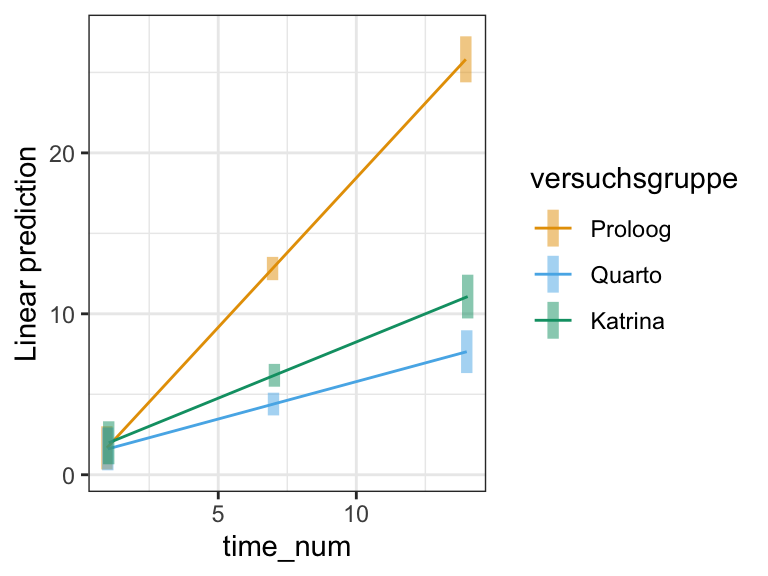
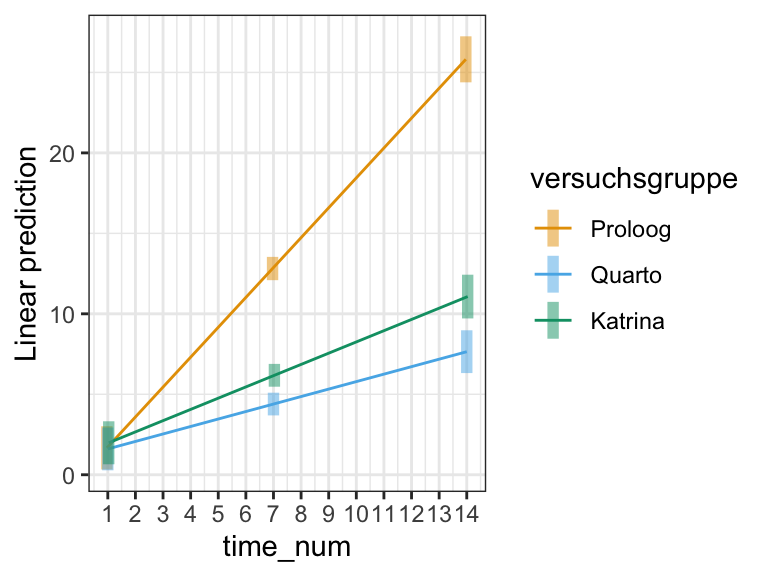
added examples and links

diff --git a/docs/stat-tests-ancova.html b/docs/stat-tests-ancova.html
@@ -651,7 +651,7 @@ pre > code.sourceCode > span > a:first-child::before { text-decoration: underlin
   </div>
   
 
-</header><p><em>Version vom July 16, 2023 um 19:26:30</em></p>
+</header><p><em>Version vom July 16, 2023 um 20:05:37</em></p>
 <blockquote class="blockquote">
 <p><em>“Make use of time, let not advantage slip.” — William Shakespeare</em></p>
 </blockquote>
@@ -1261,38 +1261,40 @@ Signif. codes:  0 '***' 0.001 '**' 0.01 '*' 0.05 '.' 0.1 ' ' 1</code></pre>
 <figure class="figure"><p><img src="images/caution.png" class="img-fluid figure-img" style="width:50.0%"></p>
 </figure>
 </div>
-<p>Im Folgenden schauen wir uns dann die Auswertung der Gurkendaten einmal genauer an. Für mehr Informationen bitte einmal in das Kapitel <a href="stat-tests-posthoc.html"><span>Kapitel&nbsp;31</span></a> schauen.</p>
+<p>Im Folgenden schauen wir uns dann die Auswertung der Gurkendaten einmal genauer an. Für mehr Informationen zu dem Paket <code>emmeans</code> und den entsprechenden Funktionen dann bitte einmal in das Kapitel <a href="stat-tests-posthoc.html"><span>Kapitel&nbsp;31</span></a> schauen.</p>
 
 <div class="no-row-height column-margin column-container"><div class="">
-<p>Es gibt hier auch ein weiteres englischsprachiges Tutorium <a href="https://yuzar-blog.netlify.app/posts/2022-12-29-emmeans2interactions/">Don’t Ignore Interactions - Unleash the Full Power of Models with {emmeans} R-package</a></p>
+<p>Es gibt hier auch ein weiteres englischsprachiges Tutorium <a href="https://yuzar-blog.netlify.app/posts/2022-12-29-emmeans2interactions/">Don’t Ignore Interactions - Unleash the Full Power of Models with {emmeans} R-package</a> oder <a href="https://yuzar-blog.netlify.app/posts/2022-11-29-emmeans/">{emmeans} Game-Changing R-package Squeezes Hidden Knowledge out of Models!</a>. DISCLAIMER: Der Text ist gut, die Bebilderung des entsprechenden Videos so leider mal gar nicht…</p>
 </div></div><div class="cell">
-<div class="sourceCode" id="cb14"><pre class="downlit sourceCode r code-with-copy"><code class="sourceCode R"><span><span class="va">time_fct_fit</span> <span class="op">&lt;-</span> <span class="fu"><a href="https://rdrr.io/r/stats/lm.html">lm</a></span><span class="op">(</span><span class="va">length</span> <span class="op">~</span> <span class="va">versuchsgruppe</span> <span class="op">+</span> <span class="va">time_fct</span> <span class="op">+</span> <span class="va">versuchsgruppe</span><span class="op">:</span><span class="va">time_fct</span>, <span class="va">gurke_time_len_tbl</span><span class="op">)</span></span>
-<span></span>
-<span></span>
-<span></span>
-<span><span class="fu">emmip</span><span class="op">(</span><span class="va">time_fct_fit</span>, <span class="va">versuchsgruppe</span> <span class="op">~</span> <span class="va">time_fct</span>, CIs <span class="op">=</span> <span class="cn">TRUE</span><span class="op">)</span> <span class="op">+</span></span>
+<div class="sourceCode" id="cb14"><pre class="downlit sourceCode r code-with-copy"><code class="sourceCode R"><span><span class="va">time_fct_fit</span> <span class="op">&lt;-</span> <span class="fu"><a href="https://rdrr.io/r/stats/lm.html">lm</a></span><span class="op">(</span><span class="va">length</span> <span class="op">~</span> <span class="va">versuchsgruppe</span> <span class="op">+</span> <span class="va">time_fct</span> <span class="op">+</span> <span class="va">versuchsgruppe</span><span class="op">:</span><span class="va">time_fct</span>, <span class="va">gurke_time_len_tbl</span><span class="op">)</span></span></code><button title="In die Zwischenablage kopieren" class="code-copy-button"><i class="bi"></i></button></pre></div>
+</div>
+<div class="cell" data-layout-align="center">
+<div class="sourceCode" id="cb15"><pre class="downlit sourceCode r code-with-copy"><code class="sourceCode R"><span><span class="fu">emmip</span><span class="op">(</span><span class="va">time_fct_fit</span>, <span class="va">versuchsgruppe</span> <span class="op">~</span> <span class="va">time_fct</span>, CIs <span class="op">=</span> <span class="cn">TRUE</span><span class="op">)</span> <span class="op">+</span></span>
 <span>  <span class="fu">theme_bw</span><span class="op">(</span><span class="op">)</span> <span class="op">+</span></span>
 <span>  <span class="fu">scale_color_okabeito</span><span class="op">(</span><span class="op">)</span></span></code><button title="In die Zwischenablage kopieren" class="code-copy-button"><i class="bi"></i></button></pre></div>
 <div class="cell-output-display">
-<p><img src="stat-tests-ancova_files/figure-html/unnamed-chunk-15-1.png" class="img-fluid" width="672"></p>
+<div id="fig-stat-ancova-08" class="quarto-figure quarto-figure-center anchored">
+<figure class="figure"><p><img src="stat-tests-ancova_files/figure-html/fig-stat-ancova-08-1.png" class="img-fluid figure-img" width="576"></p>
+<figcaption class="figure-caption">Abbildung&nbsp;24.4— Scatterplot der Daten zur einfaktoriellen ANCOVA aufgetelt nach dem Geschlecht der Flöhe.</figcaption></figure>
+</div>
 </div>
 </div>
 <div class="cell" data-layout-align="center">
-<div class="sourceCode" id="cb15"><pre class="downlit sourceCode r code-with-copy"><code class="sourceCode R"><span><span class="fu">emmip</span><span class="op">(</span><span class="va">time_fct_fit</span> , <span class="va">versuchsgruppe</span> <span class="op">~</span> <span class="va">time_fct</span>, CIs <span class="op">=</span> <span class="cn">TRUE</span><span class="op">)</span> <span class="op">+</span></span>
+<div class="sourceCode" id="cb16"><pre class="downlit sourceCode r code-with-copy"><code class="sourceCode R"><span><span class="fu">emmip</span><span class="op">(</span><span class="va">time_fct_fit</span> , <span class="va">versuchsgruppe</span> <span class="op">~</span> <span class="va">time_fct</span>, CIs <span class="op">=</span> <span class="cn">TRUE</span><span class="op">)</span> <span class="op">+</span></span>
 <span>  <span class="fu">theme_bw</span><span class="op">(</span><span class="op">)</span> <span class="op">+</span></span>
 <span>  <span class="fu">scale_color_okabeito</span><span class="op">(</span><span class="op">)</span></span></code><button title="In die Zwischenablage kopieren" class="code-copy-button"><i class="bi"></i></button></pre></div>
 <div class="cell-output-display">
 <div id="fig-stat-ancova-04" class="quarto-figure quarto-figure-center anchored">
 <figure class="figure"><p><img src="stat-tests-ancova_files/figure-html/fig-stat-ancova-04-1.png" class="img-fluid figure-img" width="576"></p>
-<figcaption class="figure-caption">Abbildung&nbsp;24.4— Scatterplot der Daten zur einfaktoriellen ANCOVA aufgetelt nach dem Geschlecht der Flöhe.</figcaption></figure>
+<figcaption class="figure-caption">Abbildung&nbsp;24.5— Scatterplot der Daten zur einfaktoriellen ANCOVA aufgetelt nach dem Geschlecht der Flöhe.</figcaption></figure>
 </div>
 </div>
 </div>
 <div class="cell">
-<div class="sourceCode" id="cb16"><pre class="downlit sourceCode r code-with-copy"><code class="sourceCode R"><span><span class="va">time_num_fit</span> <span class="op">&lt;-</span> <span class="fu"><a href="https://rdrr.io/r/stats/lm.html">lm</a></span><span class="op">(</span><span class="va">length</span> <span class="op">~</span> <span class="va">versuchsgruppe</span> <span class="op">+</span> <span class="va">time_num</span> <span class="op">+</span> <span class="va">versuchsgruppe</span><span class="op">:</span><span class="va">time_num</span>, <span class="va">gurke_time_len_tbl</span><span class="op">)</span></span></code><button title="In die Zwischenablage kopieren" class="code-copy-button"><i class="bi"></i></button></pre></div>
+<div class="sourceCode" id="cb17"><pre class="downlit sourceCode r code-with-copy"><code class="sourceCode R"><span><span class="va">time_num_fit</span> <span class="op">&lt;-</span> <span class="fu"><a href="https://rdrr.io/r/stats/lm.html">lm</a></span><span class="op">(</span><span class="va">length</span> <span class="op">~</span> <span class="va">versuchsgruppe</span> <span class="op">+</span> <span class="va">time_num</span> <span class="op">+</span> <span class="va">versuchsgruppe</span><span class="op">:</span><span class="va">time_num</span>, <span class="va">gurke_time_len_tbl</span><span class="op">)</span></span></code><button title="In die Zwischenablage kopieren" class="code-copy-button"><i class="bi"></i></button></pre></div>
 </div>
 <div class="cell">
-<div class="sourceCode" id="cb17"><pre class="downlit sourceCode r code-with-copy"><code class="sourceCode R"><span><span class="va">time_num_fit</span> <span class="op">%&gt;%</span> <span class="fu"><a href="https://rdrr.io/r/stats/anova.html">anova</a></span><span class="op">(</span><span class="op">)</span></span></code><button title="In die Zwischenablage kopieren" class="code-copy-button"><i class="bi"></i></button></pre></div>
+<div class="sourceCode" id="cb18"><pre class="downlit sourceCode r code-with-copy"><code class="sourceCode R"><span><span class="va">time_num_fit</span> <span class="op">%&gt;%</span> <span class="fu"><a href="https://rdrr.io/r/stats/anova.html">anova</a></span><span class="op">(</span><span class="op">)</span></span></code><button title="In die Zwischenablage kopieren" class="code-copy-button"><i class="bi"></i></button></pre></div>
 <div class="cell-output cell-output-stdout">
 <pre><code>Analysis of Variance Table
 
@@ -1307,14 +1309,16 @@ Signif. codes:  0 '***' 0.001 '**' 0.01 '*' 0.05 '.' 0.1 ' ' 1</code></pre>
 </div>
 </div>
 <div>
-<div class="sourceCode" id="cb19"><pre class="downlit sourceCode r code-with-copy"><code class="sourceCode R"><span><span class="fu">emmip</span><span class="op">(</span><span class="va">time_num_fit</span>, <span class="va">versuchsgruppe</span> <span class="op">~</span> <span class="va">time_num</span>, CIs <span class="op">=</span> <span class="cn">TRUE</span>, </span>
+<div class="sourceCode" id="cb20"><pre class="downlit sourceCode r code-with-copy"><code class="sourceCode R"><span><span class="fu">emmip</span><span class="op">(</span><span class="va">time_num_fit</span>, <span class="va">versuchsgruppe</span> <span class="op">~</span> <span class="va">time_num</span>, CIs <span class="op">=</span> <span class="cn">TRUE</span>, </span>
 <span>      at <span class="op">=</span> <span class="fu"><a href="https://rdrr.io/r/base/list.html">list</a></span><span class="op">(</span>time_num <span class="op">=</span> <span class="fu"><a href="https://rdrr.io/r/base/c.html">c</a></span><span class="op">(</span><span class="fl">1</span>, <span class="fl">7</span>, <span class="fl">14</span><span class="op">)</span><span class="op">)</span><span class="op">)</span> <span class="op">+</span></span>
 <span>  <span class="fu">theme_bw</span><span class="op">(</span><span class="op">)</span> <span class="op">+</span></span>
+<span>  <span class="fu">scale_x_continuous</span><span class="op">(</span>breaks <span class="op">=</span> <span class="fl">1</span><span class="op">:</span><span class="fl">14</span><span class="op">)</span> <span class="op">+</span></span>
 <span>  <span class="fu">scale_color_okabeito</span><span class="op">(</span><span class="op">)</span></span>
 <span></span>
 <span><span class="fu">emmip</span><span class="op">(</span><span class="va">time_num_fit</span>, <span class="va">versuchsgruppe</span> <span class="op">~</span> <span class="va">time_num</span>, CIs <span class="op">=</span> <span class="cn">TRUE</span>, </span>
 <span>      cov.reduce <span class="op">=</span> <span class="cn">FALSE</span><span class="op">)</span> <span class="op">+</span></span>
 <span>  <span class="fu">theme_bw</span><span class="op">(</span><span class="op">)</span> <span class="op">+</span></span>
+<span>  <span class="fu">scale_x_continuous</span><span class="op">(</span>breaks <span class="op">=</span> <span class="fl">1</span><span class="op">:</span><span class="fl">14</span><span class="op">)</span> <span class="op">+</span></span>
 <span>  <span class="fu">scale_color_okabeito</span><span class="op">(</span><span class="op">)</span></span></code><button title="In die Zwischenablage kopieren" class="code-copy-button"><i class="bi"></i></button></pre></div>
 <div id="fig-stat-ancova-05" class="cell quarto-layout-panel">
 <figure class="figure"><div class="quarto-layout-row quarto-layout-valign-top">
@@ -1331,12 +1335,12 @@ Signif. codes:  0 '***' 0.001 '**' 0.01 '*' 0.05 '.' 0.1 ' ' 1</code></pre>
 </div>
 </div>
 </div>
-<p></p><figcaption class="figure-caption">Abbildung&nbsp;24.5— Darstellung Anzahl an Bärchen und Anzahl an Farben. Es gibt nicht mehr als sechs Farben. Auf der linken Seite die beobachteten Werte und auf der rechten Seite die theoretischen Werte.</figcaption><p></p>
+<p></p><figcaption class="figure-caption">Abbildung&nbsp;24.6— Darstellung Anzahl an Bärchen und Anzahl an Farben. Es gibt nicht mehr als sechs Farben. Auf der linken Seite die beobachteten Werte und auf der rechten Seite die theoretischen Werte.</figcaption><p></p>
 </figure>
 </div>
 </div>
 <div class="cell">
-<div class="sourceCode" id="cb20"><pre class="downlit sourceCode r code-with-copy"><code class="sourceCode R"><span><span class="fu">emtrends</span><span class="op">(</span><span class="va">time_num_fit</span>, <span class="op">~</span> <span class="va">versuchsgruppe</span>, var <span class="op">=</span> <span class="st">"time_num"</span>, infer <span class="op">=</span> <span class="cn">TRUE</span><span class="op">)</span></span></code><button title="In die Zwischenablage kopieren" class="code-copy-button"><i class="bi"></i></button></pre></div>
+<div class="sourceCode" id="cb21"><pre class="downlit sourceCode r code-with-copy"><code class="sourceCode R"><span><span class="fu">emtrends</span><span class="op">(</span><span class="va">time_num_fit</span>, <span class="op">~</span> <span class="va">versuchsgruppe</span>, var <span class="op">=</span> <span class="st">"time_num"</span>, infer <span class="op">=</span> <span class="cn">TRUE</span><span class="op">)</span></span></code><button title="In die Zwischenablage kopieren" class="code-copy-button"><i class="bi"></i></button></pre></div>
 <div class="cell-output cell-output-stdout">
 <pre><code> versuchsgruppe time_num.trend     SE  df lower.CL upper.CL t.ratio p.value
  Proloog                 1.857 0.0923 240    1.675    2.039  20.116  &lt;.0001
@@ -1347,7 +1351,7 @@ Confidence level used: 0.95 </code></pre>
 </div>
 </div>
 <div class="cell">
-<div class="sourceCode" id="cb22"><pre class="downlit sourceCode r code-with-copy"><code class="sourceCode R"><span><span class="fu">emtrends</span><span class="op">(</span><span class="va">time_num_fit</span>, <span class="va">pairwise</span> <span class="op">~</span> <span class="va">versuchsgruppe</span>, var <span class="op">=</span> <span class="st">"time_num"</span>, infer <span class="op">=</span> <span class="cn">TRUE</span><span class="op">)</span></span></code><button title="In die Zwischenablage kopieren" class="code-copy-button"><i class="bi"></i></button></pre></div>
+<div class="sourceCode" id="cb23"><pre class="downlit sourceCode r code-with-copy"><code class="sourceCode R"><span><span class="fu">emtrends</span><span class="op">(</span><span class="va">time_num_fit</span>, <span class="va">pairwise</span> <span class="op">~</span> <span class="va">versuchsgruppe</span>, var <span class="op">=</span> <span class="st">"time_num"</span>, infer <span class="op">=</span> <span class="cn">TRUE</span><span class="op">)</span></span></code><button title="In die Zwischenablage kopieren" class="code-copy-button"><i class="bi"></i></button></pre></div>
 <div class="cell-output cell-output-stdout">
 <pre><code>$emtrends
  versuchsgruppe time_num.trend     SE  df lower.CL upper.CL t.ratio p.value
@@ -1369,22 +1373,22 @@ P value adjustment: tukey method for comparing a family of 3 estimates </code></
 </div>
 </div>
 <div class="cell">
-<div class="sourceCode" id="cb24"><pre class="downlit sourceCode r code-with-copy"><code class="sourceCode R"><span><span class="va">time_num_poly_fit</span> <span class="op">&lt;-</span> <span class="fu"><a href="https://rdrr.io/r/stats/lm.html">lm</a></span><span class="op">(</span><span class="va">length</span> <span class="op">~</span> <span class="va">versuchsgruppe</span> <span class="op">*</span> <span class="fu"><a href="https://rdrr.io/r/stats/poly.html">poly</a></span><span class="op">(</span><span class="va">time_num</span>, <span class="fl">3</span><span class="op">)</span>, <span class="va">gurke_time_len_tbl</span><span class="op">)</span></span></code><button title="In die Zwischenablage kopieren" class="code-copy-button"><i class="bi"></i></button></pre></div>
+<div class="sourceCode" id="cb25"><pre class="downlit sourceCode r code-with-copy"><code class="sourceCode R"><span><span class="va">time_num_poly_fit</span> <span class="op">&lt;-</span> <span class="fu"><a href="https://rdrr.io/r/stats/lm.html">lm</a></span><span class="op">(</span><span class="va">length</span> <span class="op">~</span> <span class="va">versuchsgruppe</span> <span class="op">*</span> <span class="fu"><a href="https://rdrr.io/r/stats/poly.html">poly</a></span><span class="op">(</span><span class="va">time_num</span>, <span class="fl">3</span><span class="op">)</span>, <span class="va">gurke_time_len_tbl</span><span class="op">)</span></span></code><button title="In die Zwischenablage kopieren" class="code-copy-button"><i class="bi"></i></button></pre></div>
 </div>
 <div class="cell" data-layout-align="center">
-<div class="sourceCode" id="cb25"><pre class="downlit sourceCode r code-with-copy"><code class="sourceCode R"><span><span class="fu">emmip</span><span class="op">(</span><span class="va">time_num_poly_fit</span>, <span class="va">versuchsgruppe</span> <span class="op">~</span> <span class="va">time_num</span>, CIs <span class="op">=</span> <span class="cn">TRUE</span>, </span>
+<div class="sourceCode" id="cb26"><pre class="downlit sourceCode r code-with-copy"><code class="sourceCode R"><span><span class="fu">emmip</span><span class="op">(</span><span class="va">time_num_poly_fit</span>, <span class="va">versuchsgruppe</span> <span class="op">~</span> <span class="va">time_num</span>, CIs <span class="op">=</span> <span class="cn">TRUE</span>, </span>
 <span>      cov.reduce <span class="op">=</span> <span class="cn">FALSE</span><span class="op">)</span> <span class="op">+</span></span>
 <span>  <span class="fu">theme_bw</span><span class="op">(</span><span class="op">)</span> <span class="op">+</span></span>
 <span>  <span class="fu">scale_color_okabeito</span><span class="op">(</span><span class="op">)</span></span></code><button title="In die Zwischenablage kopieren" class="code-copy-button"><i class="bi"></i></button></pre></div>
 <div class="cell-output-display">
 <div id="fig-stat-ancova-06" class="quarto-figure quarto-figure-center anchored">
 <figure class="figure"><p><img src="stat-tests-ancova_files/figure-html/fig-stat-ancova-06-1.png" class="img-fluid figure-img" width="576"></p>
-<figcaption class="figure-caption">Abbildung&nbsp;24.6— Scatterplot der Daten zur einfaktoriellen ANCOVA aufgetelt nach dem Geschlecht der Flöhe.</figcaption></figure>
+<figcaption class="figure-caption">Abbildung&nbsp;24.7— Scatterplot der Daten zur einfaktoriellen ANCOVA aufgetelt nach dem Geschlecht der Flöhe.</figcaption></figure>
 </div>
 </div>
 </div>
 <div class="cell">
-<div class="sourceCode" id="cb26"><pre class="downlit sourceCode r code-with-copy"><code class="sourceCode R"><span><span class="fu">emmeans</span><span class="op">(</span><span class="va">time_num_poly_fit</span>, <span class="va">pairwise</span> <span class="op">~</span> <span class="va">versuchsgruppe</span> <span class="op">|</span> <span class="va">time_num</span>, </span>
+<div class="sourceCode" id="cb27"><pre class="downlit sourceCode r code-with-copy"><code class="sourceCode R"><span><span class="fu">emmeans</span><span class="op">(</span><span class="va">time_num_poly_fit</span>, <span class="va">pairwise</span> <span class="op">~</span> <span class="va">versuchsgruppe</span> <span class="op">|</span> <span class="va">time_num</span>, </span>
 <span>        at <span class="op">=</span> <span class="fu"><a href="https://rdrr.io/r/base/list.html">list</a></span><span class="op">(</span>time_num <span class="op">=</span> <span class="fu"><a href="https://rdrr.io/r/base/c.html">c</a></span><span class="op">(</span><span class="fl">1</span>, <span class="fl">7</span>, <span class="fl">14</span><span class="op">)</span><span class="op">)</span><span class="op">)</span> <span class="op">%&gt;%</span> </span>
 <span>  <span class="fu">cld</span><span class="op">(</span><span class="op">)</span></span></code><button title="In die Zwischenablage kopieren" class="code-copy-button"><i class="bi"></i></button></pre></div>
 <div class="cell-output cell-output-stdout">
@@ -1415,7 +1419,7 @@ NOTE: If two or more means share the same grouping symbol,
 </div>
 </div>
 <div class="cell">
-<div class="sourceCode" id="cb28"><pre class="downlit sourceCode r code-with-copy"><code class="sourceCode R"><span><span class="fu">emtrends</span><span class="op">(</span><span class="va">time_num_poly_fit</span>, <span class="va">pairwise</span> <span class="op">~</span> <span class="va">versuchsgruppe</span>, var <span class="op">=</span> <span class="st">"time_num"</span>, infer <span class="op">=</span> <span class="fu"><a href="https://rdrr.io/r/base/c.html">c</a></span><span class="op">(</span><span class="cn">TRUE</span><span class="op">)</span>,</span>
+<div class="sourceCode" id="cb29"><pre class="downlit sourceCode r code-with-copy"><code class="sourceCode R"><span><span class="fu">emtrends</span><span class="op">(</span><span class="va">time_num_poly_fit</span>, <span class="va">pairwise</span> <span class="op">~</span> <span class="va">versuchsgruppe</span>, var <span class="op">=</span> <span class="st">"time_num"</span>, infer <span class="op">=</span> <span class="fu"><a href="https://rdrr.io/r/base/c.html">c</a></span><span class="op">(</span><span class="cn">TRUE</span><span class="op">)</span>,</span>
 <span>         max.degree <span class="op">=</span> <span class="fl">3</span><span class="op">)</span></span></code><button title="In die Zwischenablage kopieren" class="code-copy-button"><i class="bi"></i></button></pre></div>
 <div class="cell-output cell-output-stdout">
 <pre><code>$emtrends
@@ -1471,23 +1475,23 @@ P value adjustment: tukey method for comparing a family of 3 estimates </code></
 <div class="no-row-height column-margin column-container"><div class="">
 <p>Ein englisches Tutorium gibt es dann nochmal ausführlicher unter <a href="https://yuzar-blog.netlify.app/posts/2022-12-01-quantileregression/">Quantile Regression as an useful Alternative for Ordinary Linear Regression</a></p>
 </div></div><div class="cell">
-<div class="sourceCode" id="cb30"><pre class="downlit sourceCode r code-with-copy"><code class="sourceCode R"><span><span class="va">time_num_rq_fit</span> <span class="op">&lt;-</span> <span class="fu">rq</span><span class="op">(</span><span class="va">length</span> <span class="op">~</span> <span class="va">versuchsgruppe</span> <span class="op">+</span> <span class="va">time_num</span> <span class="op">+</span> <span class="va">versuchsgruppe</span><span class="op">:</span><span class="va">time_num</span>, tau <span class="op">=</span> <span class="fl">0.5</span>,</span>
+<div class="sourceCode" id="cb31"><pre class="downlit sourceCode r code-with-copy"><code class="sourceCode R"><span><span class="va">time_num_rq_fit</span> <span class="op">&lt;-</span> <span class="fu">rq</span><span class="op">(</span><span class="va">length</span> <span class="op">~</span> <span class="va">versuchsgruppe</span> <span class="op">+</span> <span class="va">time_num</span> <span class="op">+</span> <span class="va">versuchsgruppe</span><span class="op">:</span><span class="va">time_num</span>, tau <span class="op">=</span> <span class="fl">0.5</span>,</span>
 <span>                      <span class="va">gurke_time_len_tbl</span><span class="op">)</span></span></code><button title="In die Zwischenablage kopieren" class="code-copy-button"><i class="bi"></i></button></pre></div>
 </div>
 <div class="cell" data-layout-align="center">
-<div class="sourceCode" id="cb31"><pre class="downlit sourceCode r code-with-copy"><code class="sourceCode R"><span><span class="fu">emmip</span><span class="op">(</span><span class="va">time_num_rq_fit</span>, <span class="va">versuchsgruppe</span> <span class="op">~</span> <span class="va">time_num</span>, CIs <span class="op">=</span> <span class="cn">TRUE</span>, </span>
+<div class="sourceCode" id="cb32"><pre class="downlit sourceCode r code-with-copy"><code class="sourceCode R"><span><span class="fu">emmip</span><span class="op">(</span><span class="va">time_num_rq_fit</span>, <span class="va">versuchsgruppe</span> <span class="op">~</span> <span class="va">time_num</span>, CIs <span class="op">=</span> <span class="cn">TRUE</span>, </span>
 <span>      cov.reduce <span class="op">=</span> <span class="cn">FALSE</span><span class="op">)</span> <span class="op">+</span></span>
 <span>  <span class="fu">theme_bw</span><span class="op">(</span><span class="op">)</span> <span class="op">+</span></span>
 <span>  <span class="fu">scale_color_okabeito</span><span class="op">(</span><span class="op">)</span></span></code><button title="In die Zwischenablage kopieren" class="code-copy-button"><i class="bi"></i></button></pre></div>
 <div class="cell-output-display">
 <div id="fig-stat-ancova-07" class="quarto-figure quarto-figure-center anchored">
 <figure class="figure"><p><img src="stat-tests-ancova_files/figure-html/fig-stat-ancova-07-1.png" class="img-fluid figure-img" width="576"></p>
-<figcaption class="figure-caption">Abbildung&nbsp;24.7— Scatterplot der Daten zur einfaktoriellen ANCOVA aufgetelt nach dem Geschlecht der Flöhe.</figcaption></figure>
+<figcaption class="figure-caption">Abbildung&nbsp;24.8— Scatterplot der Daten zur einfaktoriellen ANCOVA aufgetelt nach dem Geschlecht der Flöhe.</figcaption></figure>
 </div>
 </div>
 </div>
 <div class="cell">
-<div class="sourceCode" id="cb32"><pre class="downlit sourceCode r code-with-copy"><code class="sourceCode R"><span><span class="fu">emmeans</span><span class="op">(</span><span class="va">time_num_rq_fit</span>, <span class="va">pairwise</span> <span class="op">~</span> <span class="va">versuchsgruppe</span> <span class="op">|</span> <span class="va">time_num</span>, infer  <span class="op">=</span> <span class="cn">TRUE</span>,</span>
+<div class="sourceCode" id="cb33"><pre class="downlit sourceCode r code-with-copy"><code class="sourceCode R"><span><span class="fu">emmeans</span><span class="op">(</span><span class="va">time_num_rq_fit</span>, <span class="va">pairwise</span> <span class="op">~</span> <span class="va">versuchsgruppe</span> <span class="op">|</span> <span class="va">time_num</span>, infer  <span class="op">=</span> <span class="cn">TRUE</span>,</span>
 <span>        adjust <span class="op">=</span> <span class="st">"none"</span>, at <span class="op">=</span> <span class="fu"><a href="https://rdrr.io/r/base/list.html">list</a></span><span class="op">(</span>time_num <span class="op">=</span> <span class="fu"><a href="https://rdrr.io/r/base/c.html">c</a></span><span class="op">(</span><span class="fl">1</span>, <span class="fl">7</span>, <span class="fl">14</span><span class="op">)</span><span class="op">)</span><span class="op">)</span> </span></code><button title="In die Zwischenablage kopieren" class="code-copy-button"><i class="bi"></i></button></pre></div>
 <div class="cell-output cell-output-stdout">
 <pre><code>$emmeans

diff --git a/docs/stat-tests-posthoc.html b/docs/stat-tests-posthoc.html
@@ -225,7 +225,7 @@ pre > code.sourceCode > span > a:first-child::before { text-decoration: underlin
           <li class="sidebar-item">
   <div class="sidebar-item-container"> 
   <a href="./programing-purrr-furrr.html" class="sidebar-item-text sidebar-link">
- <span class="menu-text"><span class="chapter-number">14</span>&nbsp; <span class="chapter-title">Mit <code>purrr</code> und <code>furrr</code></span></span></a>
+ <span class="menu-text"><span class="chapter-number">14</span>&nbsp; <span class="chapter-title">Ein <code>purrr</code> Cookbook</span></span></a>
   </div>
 </li>
       </ul>
@@ -488,6 +488,12 @@ pre > code.sourceCode > span > a:first-child::before { text-decoration: underlin
  <span class="menu-text"><span class="chapter-number">50</span>&nbsp; <span class="chapter-title">Permutationstest</span></span></a>
   </div>
 </li>
+          <li class="sidebar-item">
+  <div class="sidebar-item-container"> 
+  <a href="./stat-modeling-cluster.html" class="sidebar-item-text sidebar-link">
+ <span class="menu-text"><span class="chapter-number">51</span>&nbsp; <span class="chapter-title">Clusteranalysen</span></span></a>
+  </div>
+</li>
       </ul>
 </li>
         <li class="sidebar-item sidebar-item-section">
@@ -502,19 +508,19 @@ pre > code.sourceCode > span > a:first-child::before { text-decoration: underlin
 <li class="sidebar-item">
   <div class="sidebar-item-container"> 
   <a href="./experimental-design-basic.html" class="sidebar-item-text sidebar-link">
- <span class="menu-text"><span class="chapter-number">51</span>&nbsp; <span class="chapter-title">Grundlagen der Versuchsplanung</span></span></a>
+ <span class="menu-text"><span class="chapter-number">52</span>&nbsp; <span class="chapter-title">Grundlagen der Versuchsplanung</span></span></a>
   </div>
 </li>
           <li class="sidebar-item">
   <div class="sidebar-item-container"> 
   <a href="./experimental-design-advanced.html" class="sidebar-item-text sidebar-link">
- <span class="menu-text"><span class="chapter-number">52</span>&nbsp; <span class="chapter-title">Fortgeschrittene Versuchsplanung</span></span></a>
+ <span class="menu-text"><span class="chapter-number">53</span>&nbsp; <span class="chapter-title">Fortgeschrittene Versuchsplanung</span></span></a>
   </div>
 </li>
           <li class="sidebar-item">
   <div class="sidebar-item-container"> 
   <a href="./experimental-design-samplesize.html" class="sidebar-item-text sidebar-link">
- <span class="menu-text"><span class="chapter-number">53</span>&nbsp; <span class="chapter-title">Fallzahlplanung</span></span></a>
+ <span class="menu-text"><span class="chapter-number">54</span>&nbsp; <span class="chapter-title">Fallzahlplanung</span></span></a>
   </div>
 </li>
       </ul>
@@ -531,49 +537,49 @@ pre > code.sourceCode > span > a:first-child::before { text-decoration: underlin
 <li class="sidebar-item">
   <div class="sidebar-item-container"> 
   <a href="./classification-basic.html" class="sidebar-item-text sidebar-link">
- <span class="menu-text"><span class="chapter-number">54</span>&nbsp; <span class="chapter-title">Grundlagen der Klassifikation</span></span></a>
+ <span class="menu-text"><span class="chapter-number">55</span>&nbsp; <span class="chapter-title">Grundlagen der Klassifikation</span></span></a>
   </div>
 </li>
           <li class="sidebar-item">
   <div class="sidebar-item-container"> 
   <a href="./classification-data.html" class="sidebar-item-text sidebar-link">
- <span class="menu-text"><span class="chapter-number">55</span>&nbsp; <span class="chapter-title">Data splitting</span></span></a>
+ <span class="menu-text"><span class="chapter-number">56</span>&nbsp; <span class="chapter-title">Data splitting</span></span></a>
   </div>
 </li>
           <li class="sidebar-item">
   <div class="sidebar-item-container"> 
   <a href="./classification-pre-processing.html" class="sidebar-item-text sidebar-link">
- <span class="menu-text"><span class="chapter-number">56</span>&nbsp; <span class="chapter-title">Data preprocessing</span></span></a>
+ <span class="menu-text"><span class="chapter-number">57</span>&nbsp; <span class="chapter-title">Data preprocessing</span></span></a>
   </div>
 </li>
           <li class="sidebar-item">
   <div class="sidebar-item-container"> 
   <a href="./classification-model-compare.html" class="sidebar-item-text sidebar-link">
- <span class="menu-text"><span class="chapter-number">57</span>&nbsp; <span class="chapter-title">Vergleich von Algorithmen</span></span></a>
+ <span class="menu-text"><span class="chapter-number">58</span>&nbsp; <span class="chapter-title">Vergleich von Algorithmen</span></span></a>
   </div>
 </li>
           <li class="sidebar-item">
   <div class="sidebar-item-container"> 
   <a href="./classification-knn.html" class="sidebar-item-text sidebar-link">
- <span class="menu-text"><span class="chapter-number">58</span>&nbsp; <span class="chapter-title"><span class="math inline">\(k\)</span> nearest neighbor</span></span></a>
+ <span class="menu-text"><span class="chapter-number">59</span>&nbsp; <span class="chapter-title"><span class="math inline">\(k\)</span> nearest neighbor</span></span></a>
   </div>
 </li>
           <li class="sidebar-item">
   <div class="sidebar-item-container"> 
   <a href="./classification-randomforest.html" class="sidebar-item-text sidebar-link">
- <span class="menu-text"><span class="chapter-number">59</span>&nbsp; <span class="chapter-title">Decision trees</span></span></a>
+ <span class="menu-text"><span class="chapter-number">60</span>&nbsp; <span class="chapter-title">Decision trees</span></span></a>
   </div>
 </li>
           <li class="sidebar-item">
   <div class="sidebar-item-container"> 
   <a href="./classification-svm.html" class="sidebar-item-text sidebar-link">
- <span class="menu-text"><span class="chapter-number">60</span>&nbsp; <span class="chapter-title">Support vector machines</span></span></a>
+ <span class="menu-text"><span class="chapter-number">61</span>&nbsp; <span class="chapter-title">Support vector machines</span></span></a>
   </div>
 </li>
           <li class="sidebar-item">
   <div class="sidebar-item-container"> 
   <a href="./classification-neural-networks.html" class="sidebar-item-text sidebar-link">
- <span class="menu-text"><span class="chapter-number">61</span>&nbsp; <span class="chapter-title">Neural networks</span></span></a>
+ <span class="menu-text"><span class="chapter-number">62</span>&nbsp; <span class="chapter-title">Neural networks</span></span></a>
   </div>
 </li>
       </ul>
@@ -674,7 +680,7 @@ pre > code.sourceCode > span > a:first-child::before { text-decoration: underlin
   </div>
   
 
-</header><p><em>Version vom June 21, 2023 um 16:50:21</em></p>
+</header><p><em>Version vom July 16, 2023 um 20:10:49</em></p>
 <p>In diesem Kapitel wollen wir uns mit den multipen Vergleichen beschäftigen. Das heißt, wir wollen statistisch Testen, ob sich die Level eines Faktors voneinander unterscheiden. Eventuell hast du schon eine einfaktorielle ANOVA gerechnet, wie in <a href="stat-tests-anova.html#sec-fac1"><span>Kapitel&nbsp;23.2</span></a> beschrieben. Oder aber du hast eine mehrfaktorielle ANOVA gerechnet wie in <a href="stat-tests-anova.html#sec-fac2"><span>Kapitel&nbsp;23.3</span></a> gezeigt. In beiden Fällen hast du jetzt einen signifikanten Faktor, der mehr als zwei Level hat. Du willst nun wissen, <em>welche</em> der Gruppenmittelwerte der Level sich signifikant unterscheiden. Hierfür können wir verschiedene Ansätze wählen.</p>
 <ol type="1">
 <li>Wir haben eine einfaktorielle ANOVA gerechnet und nutzen nun paarweise Vergleiche um herauszufinden welche Gruppenmittelwerte sich unterscheiden (siehe <a href="#sec-posthoc-pairwise"><span>Kapitel&nbsp;31.3</span></a>)</li>
@@ -1011,9 +1017,9 @@ H_{A3}: &amp;\; \bar{y}_{dog} \ne \bar{y}_{fox}\\
 <pre><code># A tibble: 3 × 5
   contrast  estimate adj.p.value conf.low conf.high
   &lt;chr&gt;        &lt;dbl&gt;       &lt;dbl&gt;    &lt;dbl&gt;     &lt;dbl&gt;
-1 cat - dog    -3.39       0.006    -5.80    -0.968
-2 fox - dog     1.03       0.535    -1.39     3.45 
-3 fox - cat     4.41       0         2.00     6.83 </code></pre>
+1 cat - dog    -3.39       0.006    -5.80    -0.969
+2 fox - dog     1.03       0.535    -1.39     3.44 
+3 fox - cat     4.41       0.001     2.00     6.83 </code></pre>
 </div>
 </div>
 <p>Wir erhalten ein <code>tibble()</code> mit fünf Spalten. Zum einen den <code>contrast</code>, der den Vergleich widerspiegelt. Wir vergleichen im ersten Kontrast die Katzen- mit den Hundeflöhen, wobei wir <code>cat - dog</code> rechnen. Also wirklich der Mittelwert der Sprungweite der Katzenflöhe <em>minus</em> den Mittelwert der Sprungweite der Hundeflöhe rechnen. In der Spalte <code>estimate</code> sehen wir den Mittelwertsunterschied. Der Mittelwertsunterschied ist in der <em>Richtung</em> nicht ohne den Kontrast zu interpretieren. Danach erhalten wir die adjustierten <span class="math inline">\(p\)</span>-Wert sowie die simultanen 95% Konfidenzintervalle.</p>
@@ -1038,17 +1044,15 @@ H_{A3}: &amp;\; \bar{y}_{dog} \ne \bar{y}_{fox}\\
 <p>Für den Vergleich <code>fox -dog</code> ist die 0 im 95% Konfidenzintervall, wir können daher die Nullhypothese nicht ablehnen. Das 95% Konfidenzintervall ist nicht signifikant. Bei dem Vergleich <code>fox - cat</code> sowie dem Vergleich <code>cat - dog</code> ist jeweils die 0 nicht im 95% Konfidenzintervall enthalten. Beide 95% Konfidenzintervalle sind signifikant, wir können die Nullhypothese ablehnen.</p>
 </section></section><section id="sec-posthoc-emmeans" class="level2 page-columns page-full" data-number="31.5"><h2 data-number="31.5" class="anchored" data-anchor-id="sec-posthoc-emmeans">
 <span class="header-section-number">31.5</span> Gruppenvergleich mit dem <code>emmeans</code> Paket</h2>
+<p>Im Folgenden wollen wir uns mit einem anderen R Paket beschäftigen was auch multiple Vergleiche rechnen kann. In diesem Kapitel nutzen wir das R Paket <code>emmeans</code>. Im Prinzip kann <code>emmeans</code> das Gleiche wir das R Paket <code>multcomp</code>. Beide Pakete rechnen dir einen multipen Vergleich. Das Paket <code>emmeans</code> kann noch mit <em>nested comparisons</em> umgehen. Deshlb hier nochmal die Vorstellung von <code>emmeans</code>. Du kannst aber für eine simple Auswertung mit nur einem Faktor beide Pakete verwenden.</p>
 
 <div class="no-row-height column-margin column-container"><div class="">
 <p>Wir können hier nicht alles erklären und im Detail durchgehen. Hier gibt es noch ein aufwendiges Tutorium zu <code>emmeans</code>: <a href="https://aosmith.rbind.io/2019/03/25/getting-started-with-emmeans/">Getting started with emmeans</a>.</p>
 <p>Daneben gibt es auch noch die <a href="https://cran.r-project.org/web/packages/emmeans/vignettes/basics.html#contents">Einführung mit Theorie auf der Seite des R Paktes</a></p>
-</div></div><p>Im Folgenden wollen wir uns mit einem anderen R Paket beschäftigen was auch multiple Vergleiche rechnen kann. In diesem Kapitel nutzen wir das R Paket <code>emmeans</code>. Im Prinzip kann <code>emmeans</code> das Gleiche wir das R Paket <code>multcomp</code>. Beide Pakete rechnen dir einen multipen Vergleich. Das Paket <code>emmeans</code> kann noch mit <em>nested comparisons</em> umgehen. Deshlb hier nochmal die Vorstellung von <code>emmeans</code>. Du kannst aber für eine simple Auswertung mit nur einem Faktor beide Pakete verwenden.</p>
-<section id="gruppenvergleiche-mit-emmeans-in-r" class="level3 page-columns page-full" data-number="31.5.1"><h3 data-number="31.5.1" class="anchored" data-anchor-id="gruppenvergleiche-mit-emmeans-in-r">
+<p>Es gibt hier auch ein weiteres englischsprachiges Tutorium <a href="https://yuzar-blog.netlify.app/posts/2022-12-29-emmeans2interactions/">Don’t Ignore Interactions - Unleash the Full Power of Models with {emmeans} R-package</a> oder <a href="https://yuzar-blog.netlify.app/posts/2022-11-29-emmeans/">{emmeans} Game-Changing R-package Squeezes Hidden Knowledge out of Models!</a>. <strong>DISCLAIMER:</strong> Der Text ist gut, die Bebilderung des entsprechenden Videos geht so leider mal gar nicht…</p>
+</div></div><section id="gruppenvergleiche-mit-emmeans-in-r" class="level3 page-columns page-full" data-number="31.5.1"><h3 data-number="31.5.1" class="anchored" data-anchor-id="gruppenvergleiche-mit-emmeans-in-r">
 <span class="header-section-number">31.5.1</span> Gruppenvergleiche mit <code>emmeans</code> in R</h3>
-
-<div class="no-row-height column-margin column-container"><div class="">
-<p>Die Ausgabe von <code>emmeans</code> können über die Funktion <code>tidy()</code> aufgeräumt werden. Mehr dazu unter der <a href="https://broom.tidymodels.org/reference/tidy.emmGrid.html">Hilfeseite von <code>tidy</code>() zu emmeans</a>.</p>
-</div></div><p>Um den multiplen Vergleich in <code>emmeans</code> durchführen zu können brauchen wir zuerst ein lineares Modell, was uns die notwenidgen Parameter wie Mittelwerte und Standardabweichungen liefert. Wir nutzen in unserem simplen Beispiel ein lineares Modell mit einer Einflussvariable <span class="math inline">\(x\)</span> und nehmen an, dass unser Outcome <span class="math inline">\(y\)</span> normalverteilt ist. Achtung, hier muss natürlich das <span class="math inline">\(x\)</span> ein Faktor sein. Dann können wir ganz einfach die Funktion <code><a href="https://rdrr.io/r/stats/lm.html">lm()</a></code> nutzen. Im Folgenden fitten wir das Modell <code>fit_2</code> was wir dann auch weiter nutzen werden.</p>
+<p>Um den multiplen Vergleich in <code>emmeans</code> durchführen zu können brauchen wir zuerst ein lineares Modell, was uns die notwenidgen Parameter wie Mittelwerte und Standardabweichungen liefert. Wir nutzen in unserem simplen Beispiel ein lineares Modell mit einer Einflussvariable <span class="math inline">\(x\)</span> und nehmen an, dass unser Outcome <span class="math inline">\(y\)</span> normalverteilt ist. Achtung, hier muss natürlich das <span class="math inline">\(x\)</span> ein Faktor sein. Dann können wir ganz einfach die Funktion <code><a href="https://rdrr.io/r/stats/lm.html">lm()</a></code> nutzen. Im Folgenden fitten wir das Modell <code>fit_2</code> was wir dann auch weiter nutzen werden.</p>
 <div class="cell">
 <div class="sourceCode" id="cb17"><pre class="downlit sourceCode r code-with-copy"><code class="sourceCode R"><span><span class="va">fit_2</span> <span class="op">&lt;-</span> <span class="fu"><a href="https://rdrr.io/r/stats/lm.html">lm</a></span><span class="op">(</span><span class="va">jump_length</span> <span class="op">~</span> <span class="va">animal</span>, data <span class="op">=</span> <span class="va">fac1_tbl</span><span class="op">)</span></span></code><button title="In die Zwischenablage kopieren" class="code-copy-button"><i class="bi"></i></button></pre></div>
 </div>
@@ -1068,7 +1072,10 @@ P value adjustment: bonferroni method for 2 tests </code></pre>
 </div>
 </div>
 <p>Wir können auch einen anderen Kontrast wählen. Wir überschreiben jetzt das Objekt <code>comp_2_obj</code> mit dem Kontrast <em>all-pair</em>, der alle möglichen Vergleiche rechnet. In <code>emmeans</code> heißt der <em>all-pair</em> Kontrast <em>pairwise</em>.</p>
-<div class="cell">
+
+<div class="no-row-height column-margin column-container"><div class="">
+<p>Die Ausgabe von <code>emmeans</code> können über die Funktion <code>tidy()</code> aufgeräumt werden. Mehr dazu unter der <a href="https://broom.tidymodels.org/reference/tidy.emmGrid.html">Hilfeseite von <code>tidy</code>() zu emmeans</a>.</p>
+</div></div><div class="cell">
 <div class="sourceCode" id="cb20"><pre class="downlit sourceCode r code-with-copy"><code class="sourceCode R"><span><span class="va">comp_2_obj</span> <span class="op">&lt;-</span> <span class="va">fit_2</span> <span class="op">%&gt;%</span> </span>
 <span>  <span class="fu">emmeans</span><span class="op">(</span><span class="op">~</span> <span class="va">animal</span><span class="op">)</span> <span class="op">%&gt;%</span> </span>
 <span>  <span class="fu">contrast</span><span class="op">(</span>method <span class="op">=</span> <span class="st">"pairwise"</span>, adjust <span class="op">=</span> <span class="st">"bonferroni"</span><span class="op">)</span> </span>
